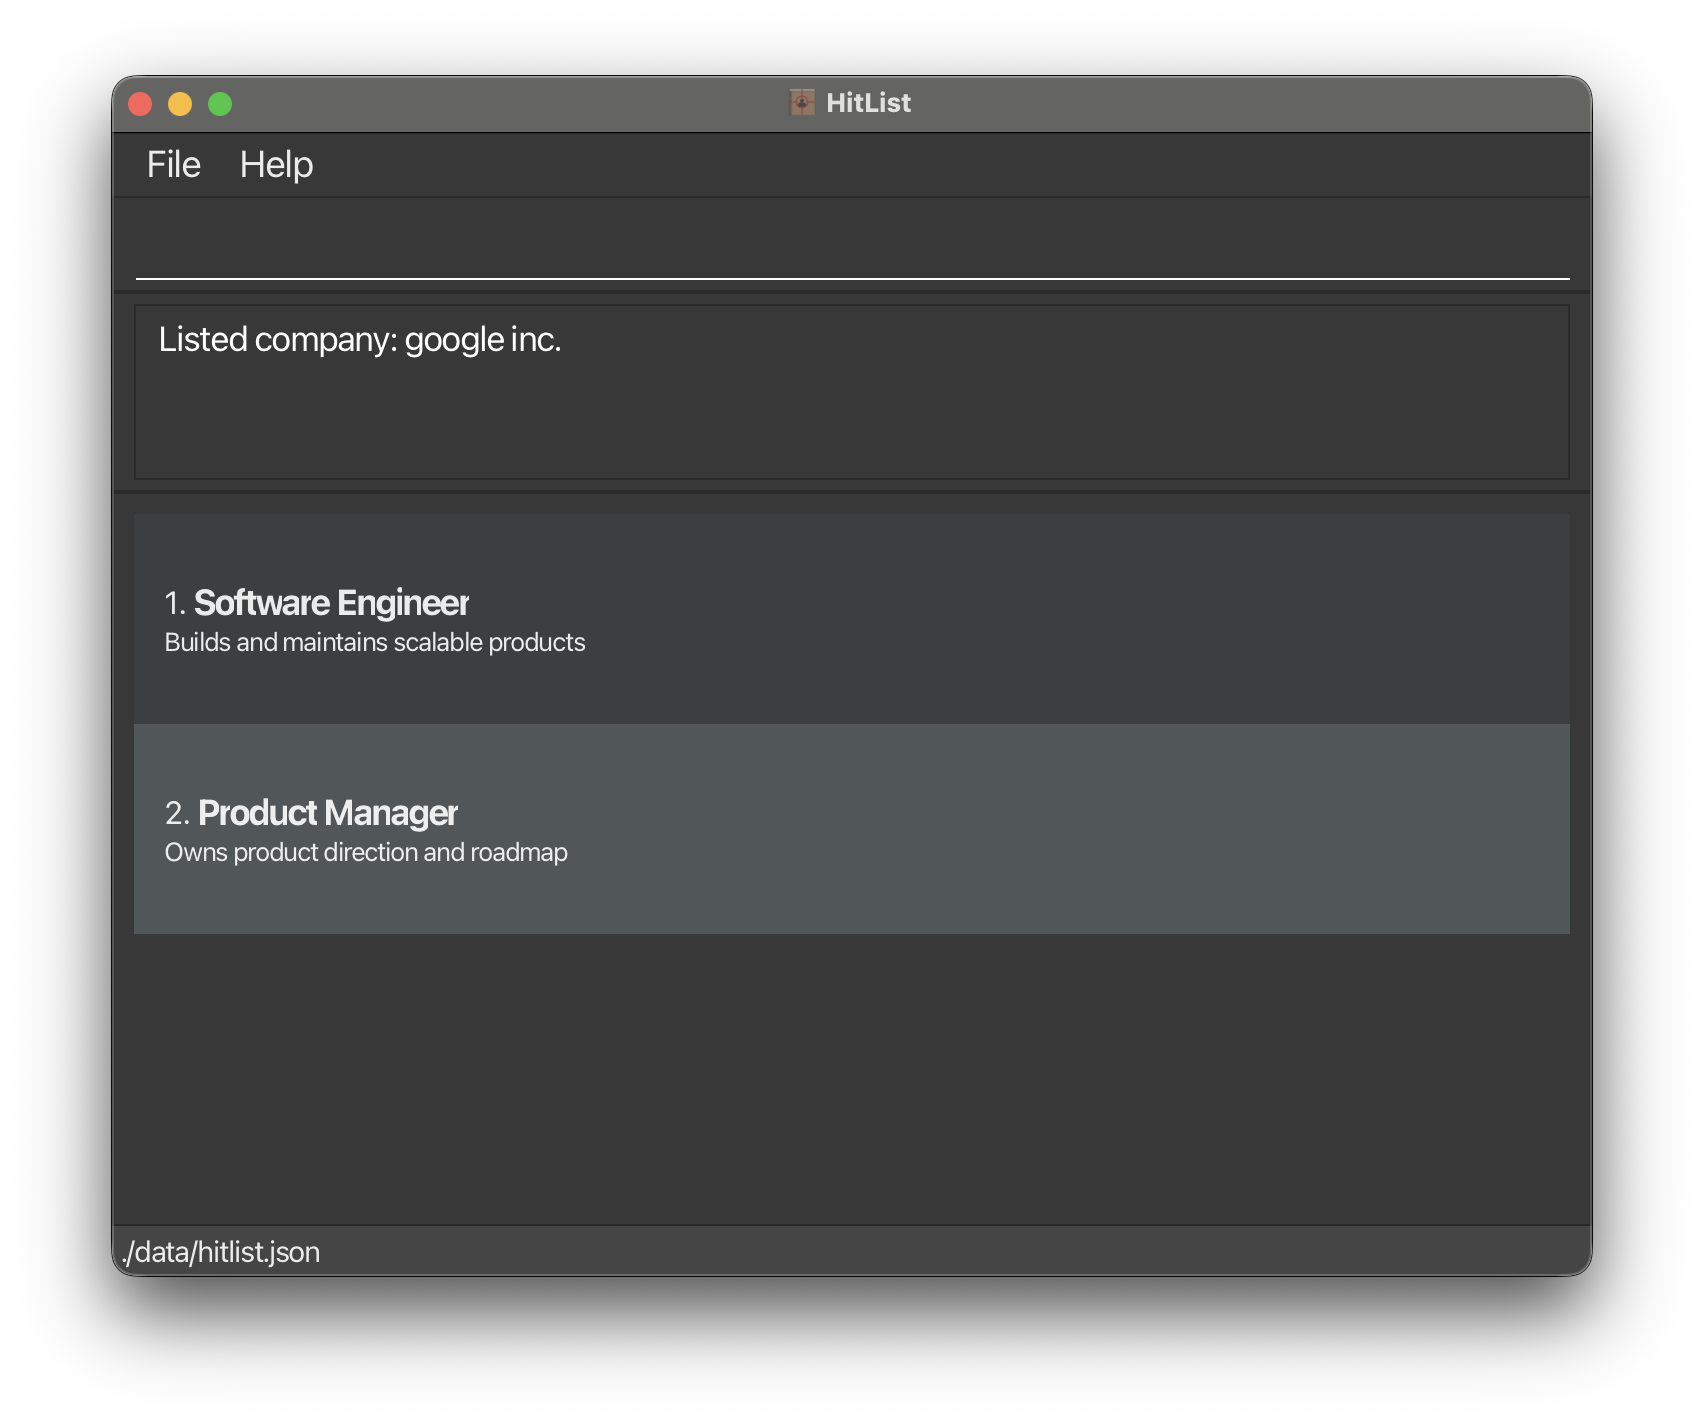
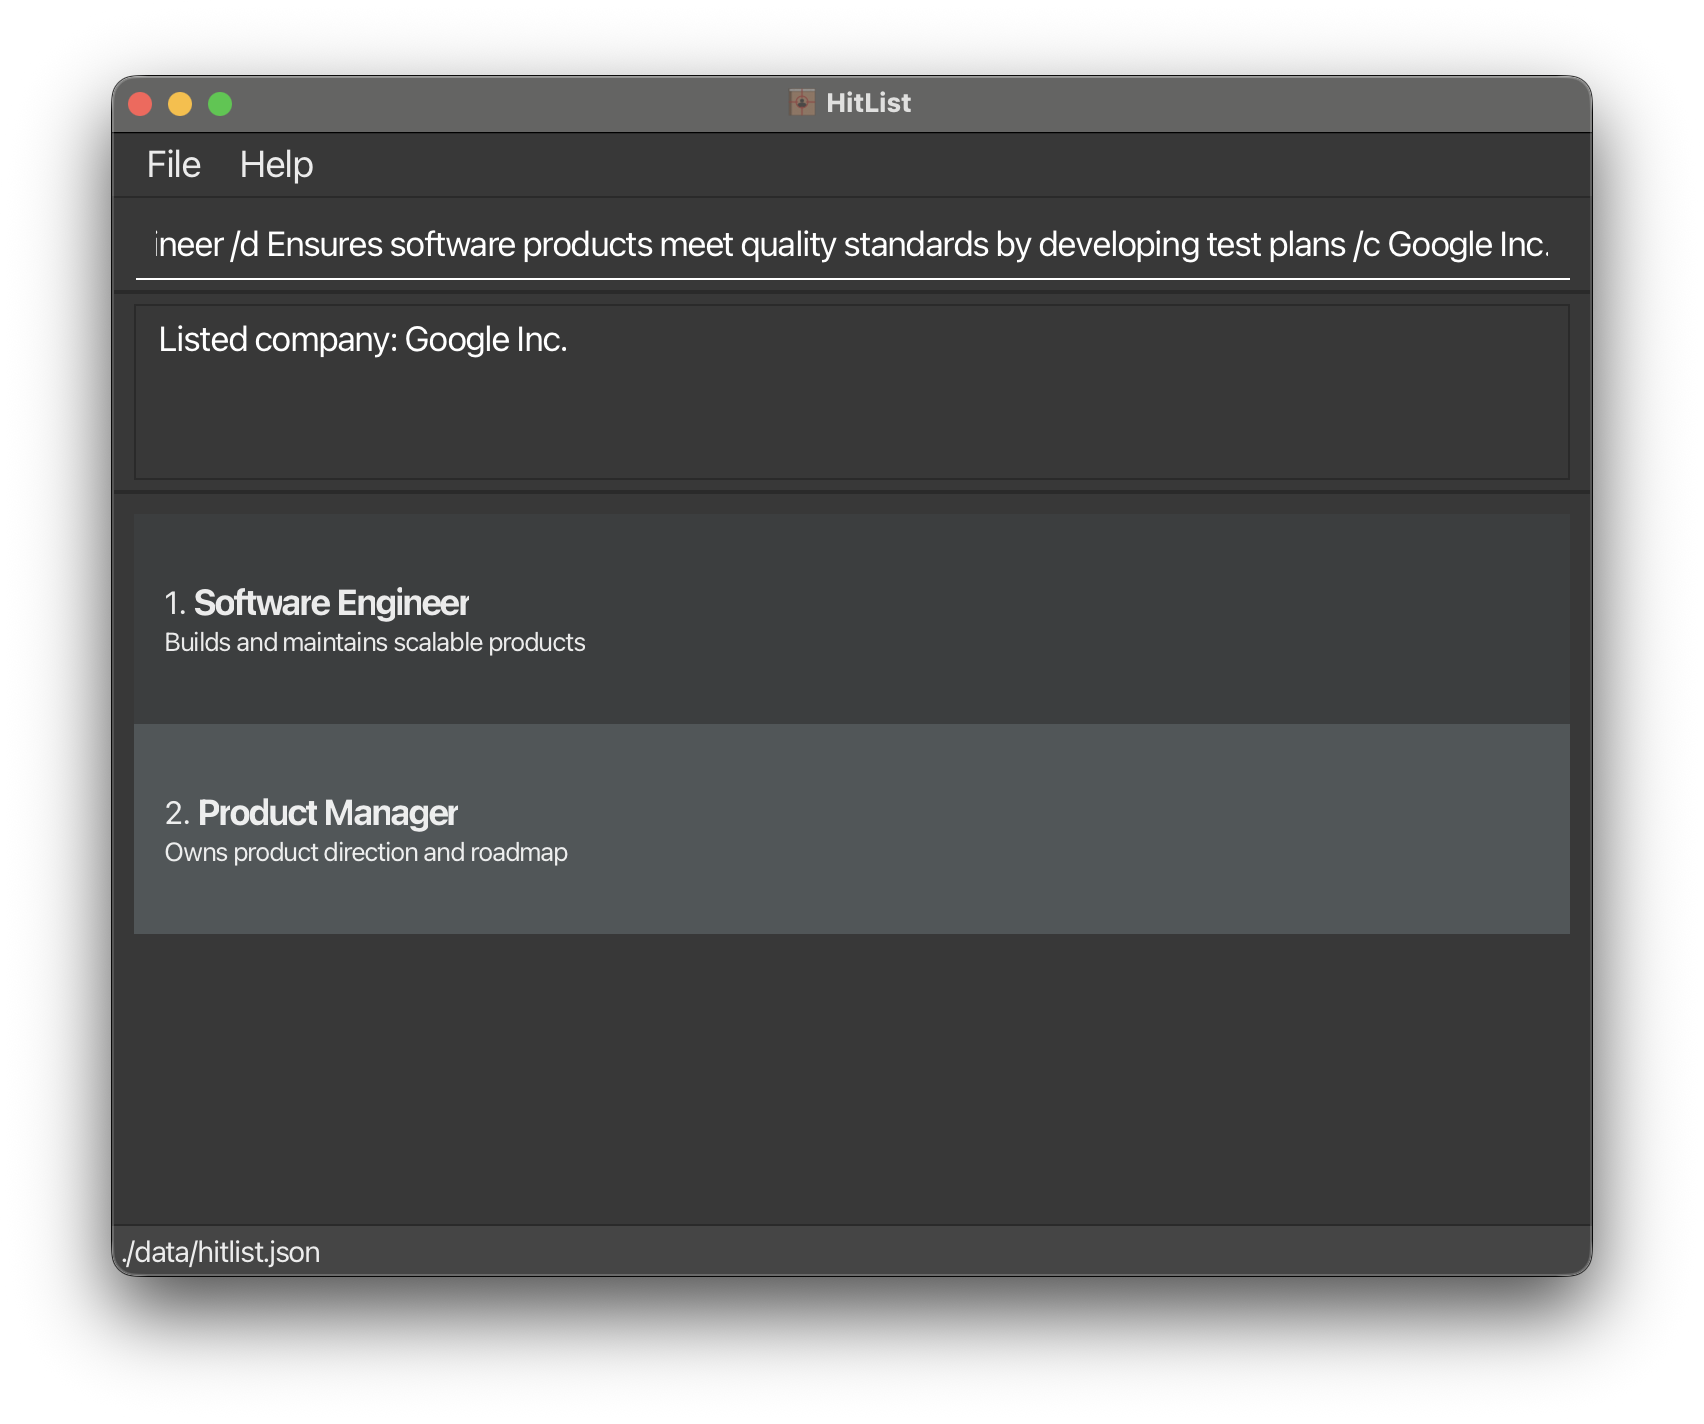
Update examples and remove redundant examples

Changed region(s): [[0.0933, 0.1545, 0.902, 0.1854], [0.2177, 0.2163, 0.3421, 0.2472]]

diff --git a/docs/UserGuide.md b/docs/UserGuide.md
@@ -353,19 +353,6 @@ Examples:
 
 <br>
 
-* `grplist` followed by `grpdel /g Unemployed`
-
-<div class="row">
-  <div class="col">
-    <img class="img-fluid" alt="Listing of groups" src="images/ug/grpdel-unemployed-before.png" />
-  </div>
-  <div class="col">
-    <img class="img-fluid" alt="Deletion of group Unemployed in HitList" src="images/ug/grpdel-unemployed-after.png" />
-  </div>
-</div>
-
-<br>
-
 ### Listing contacts in a contact group : `grplist`
 
 List all contact groups in HitList. Optionally, if a group name is specified, shows a list of contact members in that group.
@@ -404,7 +391,7 @@ Format: `grpassign /n NAME /g GROUP_NAME`
 * The group name must exactly match an existing contact group in HitList.
 
 Examples:
-* `grpassign /n Alex Yeoh /g Experienced`
+* `grplist /g experienced` followed by `grpassign /n Alex Yeoh /g Experienced`
 
 <div class="row">
   <div class="col">
@@ -412,19 +399,6 @@ Examples:
   </div>
   <div class="col">
     <img class="img-fluid" alt="After Assigning Alex Yeoh to Experienced Group" src="images/ug/grpassign-experienced-after.png" />
-  </div>
-</div>
-
-<br>
-
-* `grpassign /n Betsy Crowe /g Students`
-
-<div class="row">
-  <div class="col">
-    <img class="img-fluid" alt="Before Assigning Betsy Crowe to Students Group" src="images/ug/grpassign-students-before.png" />
-  </div>
-  <div class="col">
-    <img class="img-fluid" alt="After Assigning Betsy Crowe to Students Group" src="images/ug/grpassign-students-after.png" />
   </div>
 </div>
 
@@ -441,7 +415,8 @@ Format: `grpunassign /n NAME /g GROUP_NAME`
 * The contact must already belong to the specified group.
 
 Examples:
-* `grpunassign /n Alex Yeoh /g Experienced`
+
+* `grplist /g experienced` followed by `grpunassign /n Alex Yeoh /g Experienced`
 
 <div class="row">
   <div class="col">
@@ -449,19 +424,6 @@ Examples:
   </div>
   <div class="col">
     <img class="img-fluid" alt="After unassigning of Alex Yeoh from Experienced group" src="images/ug/grpunassign-experienced-after.png" />
-  </div>
-</div>
-
-<br>
-
-* `grpunassign /n Betsy Crowe /g Students`
-
-<div class="row">
-  <div class="col">
-    <img class="img-fluid" alt="Before unassigning of Betsy Crowe from Students group" src="images/ug/grpunassign-students-before.png" />
-  </div>
-  <div class="col">
-    <img class="img-fluid" alt="After unassigning of Betsy Crowe from Students group" src="images/ug/grpunassign-students-after.png" />
   </div>
 </div>
 
@@ -483,20 +445,8 @@ Limitations:
 * No full support for languages other than English.
 
 Examples:
-* `cmpadd /c Hush Puppies /d Clothing company`
 
-<div class="row">
-  <div class="col">
-    <img class="img-fluid" alt="Before creation of company Hush Puppies with description Clothing company" src="images/ug/cmpadd-hush-puppies-before.png" />
-  </div>
-  <div class="col">
-    <img class="img-fluid" alt="Creation of company Hush Puppies with description Clothing company" src="images/ug/cmpadd-hush-puppies-after.png" />
-  </div>
-</div>
-
-<br>
-
-* `cmpadd /c Bata /d Shoe company`
+* `cmplist` followed by `cmpadd /c Bata /d Shoe company`
 
 <div class="row">
   <div class="col">
@@ -524,20 +474,8 @@ Format: `cmpdel /c COMPANY_NAME`
 * The company name typed must be the exact company name registered in HitList.
 
 Example:
-* `cmpdel /c Hush Puppies` deletes a company named `Hush Puppies` from HitList.
 
-<div class="row">
-  <div class="col">
-    <img class="img-fluid" alt="Before deletion of company Hush Puppies" src="images/ug/cmpdel-hush-puppies-before.png" />
-  </div>
-  <div class="col">
-    <img class="img-fluid" alt="Deletion of company Hush Puppies" src="images/ug/cmpdel-hush-puppies-after.png" />
-  </div>
-</div>
-
-<br>
-
-* `cmpdel /c Bata` deletes a company named `Bata` from HitList.
+* `cmplist` followed by `cmpdel /c Bata`
 
 <div class="row">
   <div class="col">
@@ -592,7 +530,7 @@ Format: `cmpfind KEYWORD...`
 * If multiple company name keywords are given, a Company matching any one of them is returned.
 
 Examples:
-* `cmpfind inc` returns all companies with `inc` in their name, such as `Google Inc.`, `Meta Platforms, Inc.`, and `Apple Inc.`
+* `cmpfind inc`
 
 <div class="row justify-content-center">
   <div class="col-12 col-md-8">
@@ -602,7 +540,7 @@ Examples:
 
 <br>
 
-* `cmpfind google flix` returns `Google`, `Netflix` 
+* `cmpfind google flix`
 
 <div class="row justify-content-center">
   <div class="col-12 col-md-8">
@@ -630,7 +568,7 @@ Limitations:
 * No full support for languages other than English.
 
 Examples:
-* `roleadd /r Quality Assurance Engineer /d Ensures software products meet quality standards by developing test plans /c Google Inc.` adds a role named `Quality Assurance Engineer` to the company `Google`.
+* `cmplist /c Google Inc.` followed by `roleadd /r Quality Assurance Engineer /d Ensures software products meet quality standards by developing test plans /c Google Inc.`
 
 <div class="row">
   <div class="col">
@@ -638,19 +576,6 @@ Examples:
   </div>
   <div class="col">
     <img class="img-fluid" alt="Addition of Quality Assurance Engineer role to company Google Inc." src="images/ug/roleadd-quality-assurance-after.png" />
-  </div>
-</div>
-
-<br>
-
-* `roleadd /r DevOps Engineers /d Manages infrastructure and automates deployment processes, bridging the gap between development and IT operations /c Meta Platforms, Inc.` adds a role named `DevOps Engineers` to the company `Meta`.
-
-<div class="row">
-  <div class="col">
-    <img class="img-fluid" alt="Before addition of DevOps Engineers role to company Meta Platforms, Inc." src="images/ug/roleadd-devops-before.png" />
-  </div>
-  <div class="col">
-    <img class="img-fluid" alt="Addition of DevOps Engineers role to company Meta Platforms, Inc." src="images/ug/roleadd-devops-after.png" />
   </div>
 </div>
 
@@ -674,7 +599,7 @@ Format: `roledel /r ROLE_NAME /c COMPANY_NAME` or `roledel INDEX /c COMPANY_NAME
 * The company name typed must be the exact company name registered in HitList.
 
 Examples:
-* `roledel /r Quality Assurance Engineer /c Google Inc.` deletes the role named `Quality Assurance Engineer` from the company `Google Inc.`
+* `cmplist /c Google Inc.` followed by `roledel /r Quality Assurance Engineer /c Google Inc.`
 
 <div class="row">
   <div class="col">
@@ -687,7 +612,7 @@ Examples:
 
 <br>
 
-* `roledel 1 /c Meta Platforms, Inc.` deletes the first role listed in the company `Meta Platforms, Inc.`'s role list.
+* `cmplist /c Meta Platforms, Inc.` followed by `roledel 1 /c Meta Platforms, Inc.`
 
 <div class="row">
   <div class="col">

diff --git a/docs/DeveloperGuide.md b/docs/DeveloperGuide.md
@@ -307,11 +307,11 @@ A `Person` object represents a contact in the HitList. It has the following deta
 
 **Aspect: Handling Duplicate Persons:**
 * **Alternative 1 (current choice):** Reject duplicates based on the contact's name and phone number.
-    * Pros: A phone number is a strong practical identifier for recruiter workflows and prevents obvious duplicates.
-    * Cons: It does not handle the edge case where the users have more than one number or when users have the same name.
-* **Alternative 2:** Reject duplicates based on the full set of person fields.
-    * Pros: Allows multiple entries that share the same phone number and name.
-    * Cons: Makes duplicate detection harder and increases the chance of cluttering HitList with repeated contacts.
+  * Pros: A phone number is a strong practical identifier for recruiter workflows and prevents obvious duplicates.
+  * Cons: It does not handle the edge case where the users have more than one number or when users have the same name.
+* **Alternative 2:** Reject duplicates based on phone number and email.
+  * Pros: Disallows multiple entries that share the same phone number and email.
+  * Cons: Complicates CLI logic for edit and delete commands. If two distinct contacts share the same name, targeting them by the name field becomes ambiguous for the user and the parser.
 
 #### Adding a person
 
